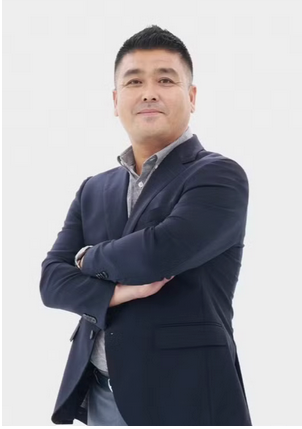
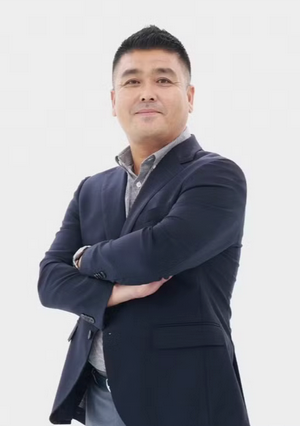
Members: 박사과정 구성원 추가(이름 이미지 표시·검색 수집 차단), 교수 사진 흰 테두리 제거

diff --git a/assets/css/style.css b/assets/css/style.css
@@ -1022,3 +1022,7 @@ tfoot td { font-weight: 600; border-bottom: 0; }
     animation: none; opacity: 1;
   }
 }
+
+/* 검색 비노출 구성원: 이름 이미지 */
+.member-name-img { display: block; width: 77px; height: auto; }
+@media (prefers-color-scheme: dark) { .member-name-img { filter: invert(1) hue-rotate(180deg); } }

diff --git a/members.md b/members.md
@@ -12,7 +12,7 @@ lede: 안녕, 윙맨. 같이 날아봅시다.
 
 <div class="profile">
   <figure class="profile-portrait">
-    <img src="{{ '/assets/images/people/ji-hoon-song.png' | relative_url }}" alt="송지훈 교수" width="302" height="429" decoding="async">
+    <img src="{{ '/assets/images/people/ji-hoon-song.png' | relative_url }}" alt="송지훈 교수" width="300" height="426" decoding="async">
   </figure>
   <div class="profile-details">
   <div class="profile-intro">
@@ -64,13 +64,16 @@ lede: 안녕, 윙맨. 같이 날아봅시다.
   {% for m in list %}
   {% assign member_photo = site.data.member_photos[m.name] %}
   <article class="member">
-    {% if member_photo %}
+    {% if m.photo %}
+    <img class="member-photo" src="{{ m.photo | relative_url }}" alt="" width="240" height="180" loading="lazy" decoding="async">
+    {% elsif member_photo %}
     <img class="member-photo" src="{{ member_photo.image | relative_url }}" alt="{{ m.name | escape }} 사진" style="object-position: {{ member_photo.position | default: 'center' | escape }};" width="240" height="180" loading="lazy" decoding="async">
     {% else %}
     <div class="member-photo member-photo--empty{% if m.photo_label %} member-photo--label{% endif %}" aria-hidden="true"><span>{% if m.photo_label %}{{ m.photo_label }}{% else %}{{ m.name | slice: 0 }}{% endif %}</span></div>
     {% endif %}
     <div class="member-info">
-    <div class="member-name">{{ m.name }}{% if m.credential %} ({{ m.credential }}){% endif %}{% if m.name_en %} <span>{{ m.name_en }}</span>{% endif %}</div>
+    {% if m.name_image %}<div class="member-name" data-nosnippet><img class="member-name-img" src="{{ m.name_image | relative_url }}" alt="" width="77" height="46"></div>
+    {% else %}<div class="member-name">{{ m.name }}{% if m.credential %} ({{ m.credential }}){% endif %}{% if m.name_en %} <span>{{ m.name_en }}</span>{% endif %}</div>{% endif %}
     {% if m.affiliation %}<div class="sub">{{ m.affiliation }}</div>{% endif %}
     {% if m.interests %}<ul class="tags">{% for i in m.interests %}<li>{{ i }}</li>{% endfor %}</ul>{% endif %}
     </div>
